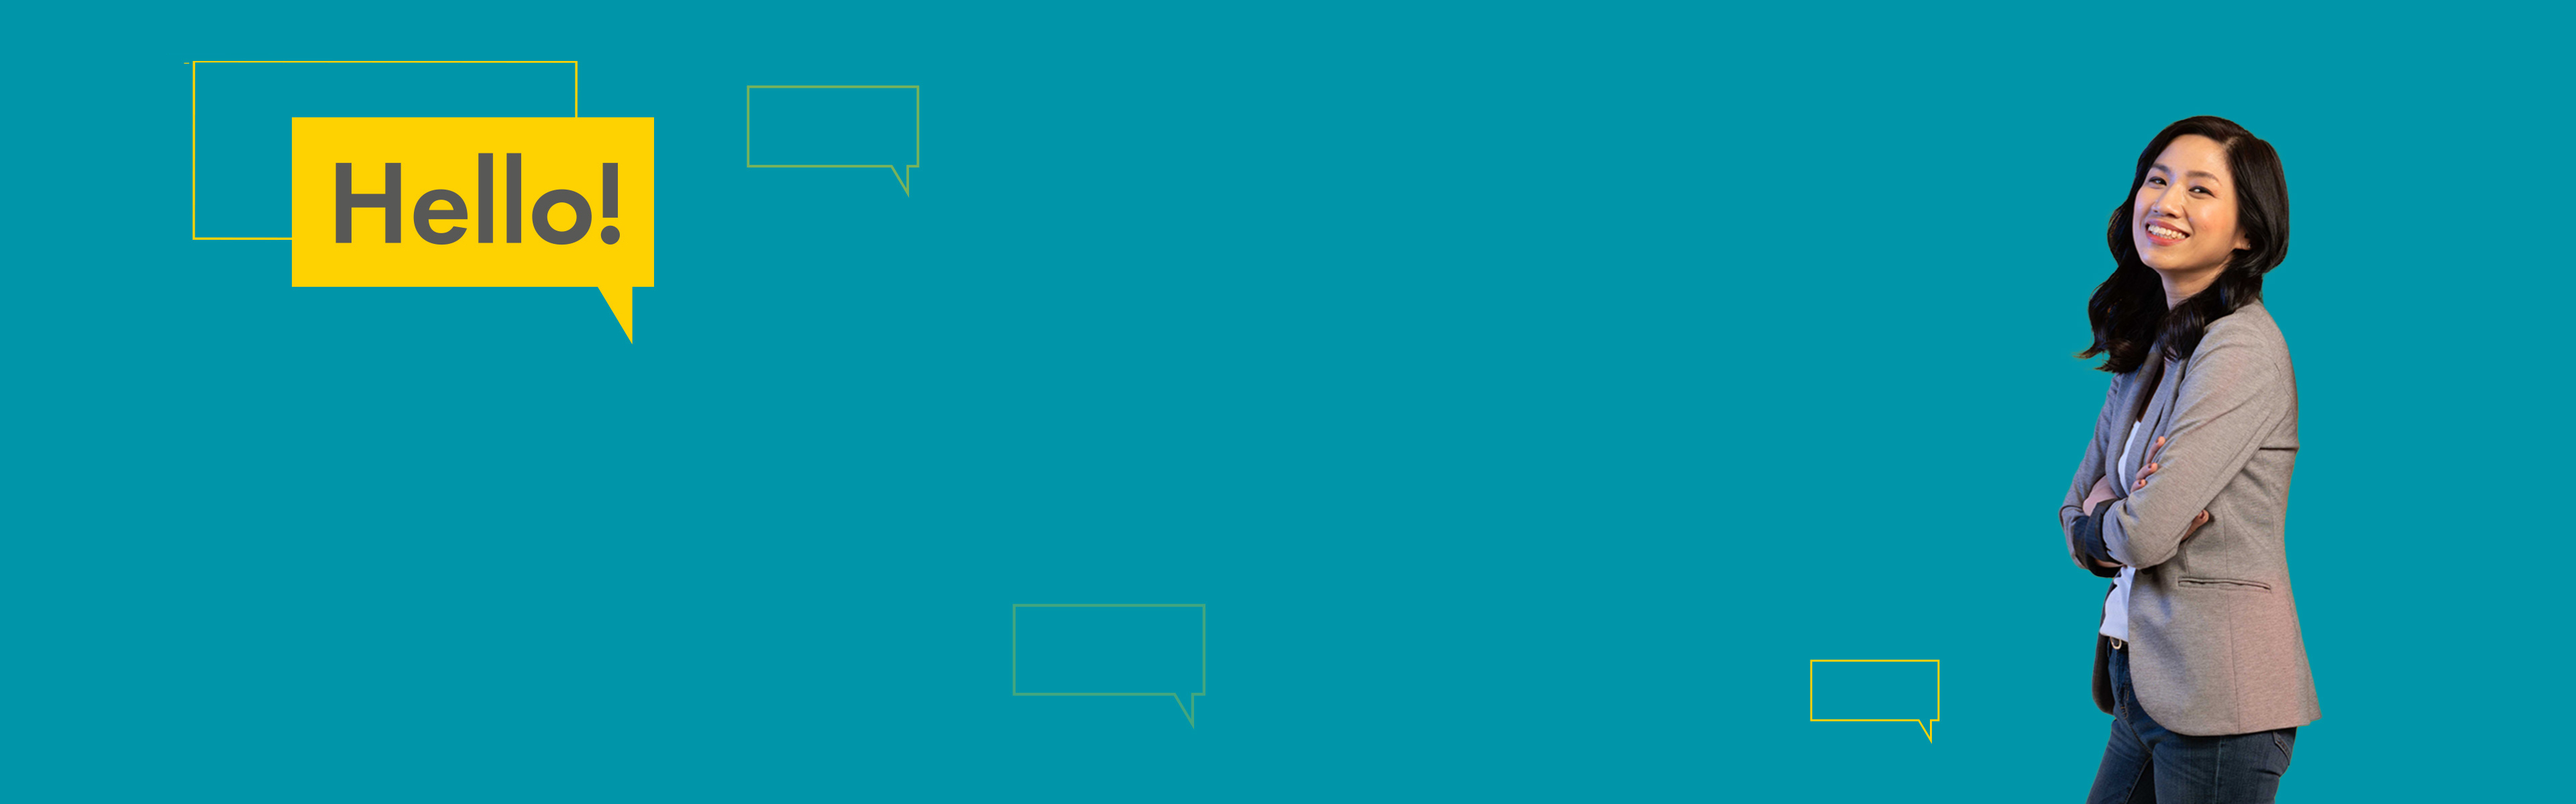
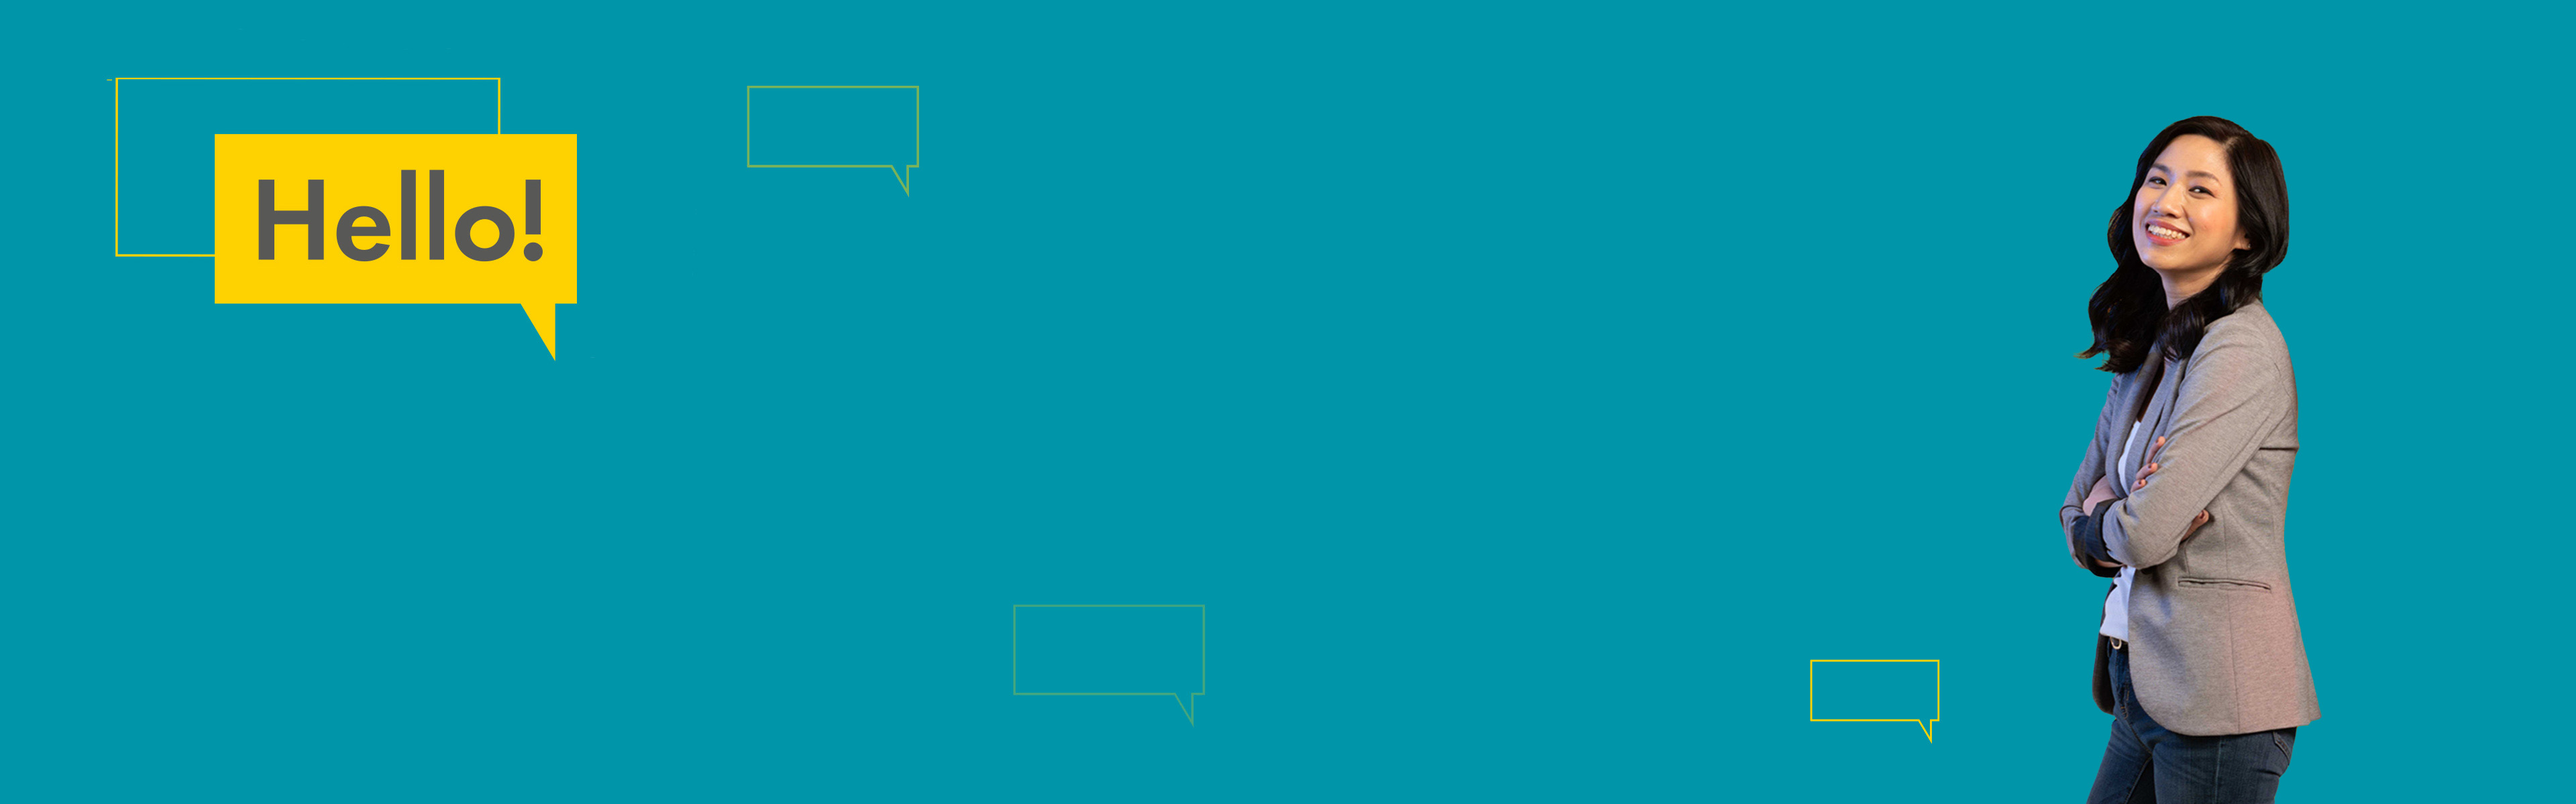
Smooth

Changed region(s): [[0.0625, 0.1233, 0.2812, 0.4317], [0.0625, 0.0925, 0.0938, 0.1233]]

diff --git a/styles.css b/styles.css
@@ -1,158 +1,158 @@
-@font-face { 
-    font-family: ShellBook;
-    src: url(./fonts/ShellBook.ttf);
-    src: local('ShellBook'),
-    url(./fonts/ShellBook.ttf) format('truetype'); 
-   } 
-@font-face { 
-    font-family: ShellHeavy;
-    src: url(./fonts/ShellHeavy.ttf);
-    src: local('ShellHeavy'),
-    url(./fonts/ShellHeavy.ttf) format('truetype'); 
-   } 
-body{
-    min-width: 100vw;
+@font-face {
+  font-family: ShellBook;
+  src: url(./fonts/ShellBook.ttf);
+  src: local("ShellBook"), url(./fonts/ShellBook.ttf) format("truetype");
+}
+@font-face {
+  font-family: ShellHeavy;
+  src: url(./fonts/ShellHeavy.ttf);
+  src: local("ShellHeavy"), url(./fonts/ShellHeavy.ttf) format("truetype");
+}
+body {
+  min-width: 100vw;
 }
 
-.banner{
-    margin: 0; 
-    padding:0; 
-    border: none; 
-    position: relative;
-    width: 100%;
-    height: 100%;
-    z-index: 10;
+.banner {
+  margin: 0;
+  padding: 0;
+  border: none;
+  position: relative;
+  width: 100%;
+  height: 100%;
+  z-index: 10;
 }
-.overlay{
-    position: absolute;
-    top: 0%;
-    left: 0;
-    background: url('./media/frame.jpg');
-    background-size: contain;
-    width: 100%;
-    height:100%;
-    animation: transition .4s;
+.overlay {
+  position: absolute;
+  top: 0%;
+  left: 0;
+  background: url("./media/frame.jpg");
+  background-size: contain;
+  width: 100%;
+  height: 100%;
+  animation: transition 0.8s;
+  /* opacity: 0.3; */
 }
 
 @keyframes transition {
-    30%{
-        transform: scale(.98);
-    }
-    80%{
-        transform: scale(1);
-    }
+  30% {
+    transform: scale(0.95);
+  }
+  80% {
+    transform: scale(1);
+  }
 }
 
-
-
-.hidden{
-    position: relative;
-    top: 0%;
-    left: 0;
-    background: url('./media/frame.jpg');
-    background-size: contain;
-    width: 100%;
-    height:100%;
-    opacity: 0.3;
-    opacity: 0;
-    z-index: 10;
-    display: flex;
+.hidden {
+  position: relative;
+  top: 0%;
+  left: 0;
+  background: url("./media/frame.jpg");
+  background-size: contain;
+  width: 100%;
+  height: 100%;
+  opacity: 0.3;
+  opacity: 0;
+  z-index: 10;
+  display: flex;
 }
 
-.title{
-    position: absolute;
-    top: 11.5%;
-    left: 37.2%;
-    font-size: 3vw;
-    line-height: 1.25;
-    color: rgb(255, 255, 255);
-    font-family: 'ShellHeavy';
+.title {
+  position: absolute;
+  top: 8%;
+  left: 37.2%;
+  font-size: 3vw;
+  line-height: 1.25;
+  color: rgb(255, 255, 255);
+  font-family: "ShellHeavy";
 }
 
-.yellowBtn{
-    position: relative;
-    top: 48%;
-    left: 37.1%;
-    background-color: #FED200;
-    width: 33%;
-    height: 19%;
-    cursor: pointer;
-    border: none;
-    color: #494949;
-    transition: .4s ;
-    -webkit-transition: .4s;
+.yellowBtn {
+  position: relative;
+  top: 48%;
+  left: 37.1%;
+  background-color: #fed200;
+  width: 33%;
+  height: 19%;
+  cursor: pointer;
+  border: none;
+  color: #494949;
+  transition: 0.4s;
+  -webkit-transition: 0.4s;
 }
-.yellowBtn:focus, .yellowBtn:hover{
-    background-color: #494949;
+.yellowBtn:focus,
+.yellowBtn:hover {
+  background-color: #494949;
 }
-.yellowBtn:focus .btnContent, .yellowBtn:hover .btnContent{
-    color: #FED200;
+.yellowBtn:focus .btnContent,
+.yellowBtn:hover .btnContent {
+  color: #fed200;
 }
-.redSquare{
-    position: absolute;
-    top: 35%;
-    left: 5%;
-    width: 6%;
-    height: 30%;
-    background-color: #DD1D21;
-}
-
-.arrow{
-position: absolute;
-top: 50%;
-left: 50%;
-transform: translate(-50%,-50%);
--webkit-transform: translate(-50%,-50%);
-    width: 0; 
-    height: 0; 
-    border-top: 0.6vw solid transparent;
-    border-bottom: 0.6vw solid transparent;
-    border-left: 0.6vw solid rgb(255, 255, 255);
-
+.redSquare {
+  position: absolute;
+  top: 35%;
+  left: 11%;
+  width: 6%;
+  height: 30%;
+  background-color: #dd1d21;
 }
 
-.btnContent{
-    font-size: 1.8vw;
-    line-height: 1.25;
-    color: #494949;
-    font-family: 'ShellHeavy';
-    position: absolute;
-    top: -1%;
-    left: 15.7%;
+.arrow {
+  position: absolute;
+  top: 50%;
+  left: 50%;
+  transform: translate(-50%, -50%);
+  -webkit-transform: translate(-50%, -50%);
+  width: 0;
+  height: 0;
+  border-top: 0.6vw solid transparent;
+  border-bottom: 0.6vw solid transparent;
+  border-left: 0.6vw solid rgb(255, 255, 255);
 }
 
-.link{
-    font-size: 1.8vw;
-    line-height: 1.25;
-    color: rgb(255, 255, 255);
-    font-family: 'ShellBook';
-    position: absolute;
-    top: 73%;
-    left: 37.3%;
-    text-underline-position: below;
-    text-underline-offset: 5% ;
-    transition: .4s;
+.btnContent {
+  font-size: 1.8vw;
+  line-height: 1.25;
+  color: #494949;
+  font-family: "ShellHeavy";
+  position: absolute;
+  top: -1%;
+  left: 21%;
 }
 
-.link:focus, .link:hover{
-    color: #DD1D21;
+.link {
+  font-size: 1.8vw;
+  line-height: 1.25;
+  color: rgb(255, 255, 255);
+  font-family: "ShellBook";
+  position: absolute;
+  top: 72.5%;
+  left: 37.3%;
+  text-underline-position: below;
+  text-underline-offset: 15%;
+  transition: 0.4s;
 }
 
-.link:focus .link::after{
-    background-color:#DD1D21;
+.link:focus,
+.link:hover {
+  color: #dd1d21;
 }
 
-.description{
-    position: absolute;
-    bottom: 0;
-    left: 3vw;
-    width: 30%;
-    height: 55%;
-    padding: 0 1.75vw;
+.link:focus .link::after {
+  background-color: #dd1d21;
 }
-.description_content{
-    font-size: 1.9vw;
-    line-height: 1.20;
-    color: rgb(255, 255, 255);
-    font-family: 'ShellBook';
+
+.description {
+  position: absolute;
+  bottom: 0;
+  left: 3vw;
+  width: 30%;
+  height: 55%;
+  padding: 0 1.75vw;
+}
+.description_content {
+  font-size: 1.9vw;
+  line-height: 1.2;
+  color: rgb(255, 255, 255);
+  font-family: "ShellBook";
+  padding-top: 2.5%;
 }

diff --git a/index.html b/index.html
@@ -32,15 +32,11 @@
           class="link"
         >
           Sign up at our Shell Tallent Community
-          <!-- Join our Shell Talent Community -->
         </a>
         <div class="description">
           <p class="description_content">
             Help bridge ideas across the <br />
             world with your multilingual skills. <br />
-            <!-- Trive in an inclusive community <br />
-            and build a globally-connected <br />
-            career at Shell. -->
           </p>
         </div>
       </div>
